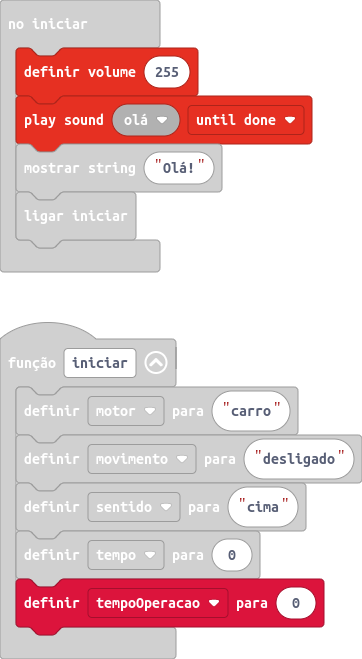
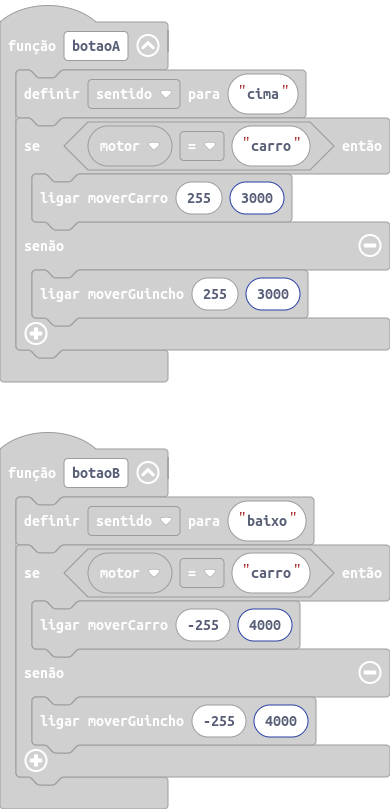
tempo de duracao

diff --git a/main.ts b/main.ts
@@ -29,9 +29,9 @@ input.onLogoEvent(TouchButtonEvent.Pressed, function () {
 function botaoA () {
     sentido = "cima"
     if (motor == "carro") {
-        moverCarro(255, 30000)
+        moverCarro(255, 3000)
     } else {
-        moverGuincho(255, 30000)
+        moverGuincho(255, 3000)
     }
 }
 input.onButtonPressed(Button.A, function () {
@@ -150,9 +150,9 @@ function moverGuincho (velocidade: number, duracao: number) {
 function botaoB () {
     sentido = "baixo"
     if (motor == "carro") {
-        moverCarro(-255, 30000)
+        moverCarro(-255, 4000)
     } else {
-        moverGuincho(-255, 30000)
+        moverGuincho(-255, 4000)
     }
 }
 let tempoAgora = 0
